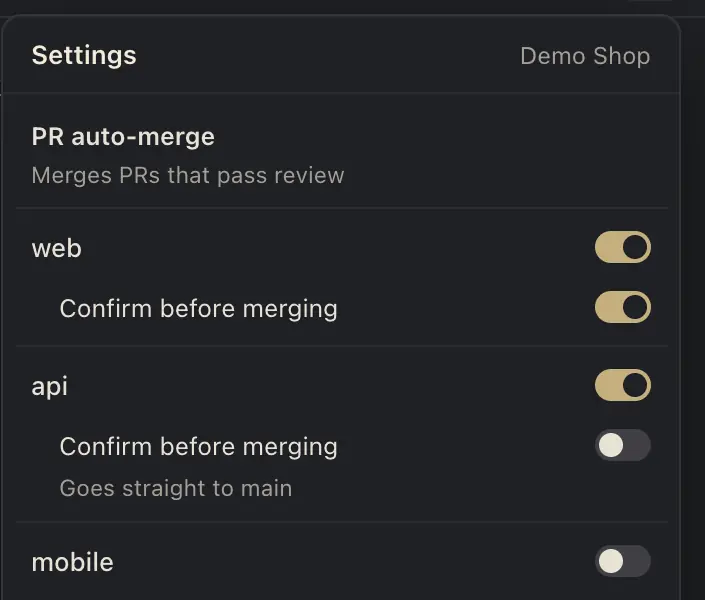
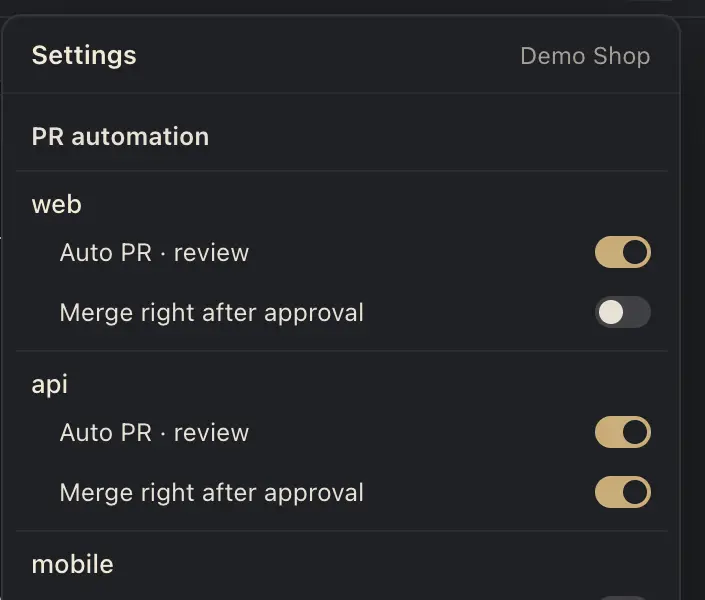
feat(athena): 업데이트 내역에 0.32 절(배포판 전 · 4개 언어) 추가 · 설정 팝업 스크린샷을 새 화면으로 교체

diff --git a/athena/ja/releases/index.html b/athena/ja/releases/index.html
@@ -70,9 +70,21 @@
      ③ 나머지는 "그 밖의 작은 고침 N개" 한 줄(r.<판>m)로 묶고 그 판 GitHub Release(releases/tag/vX.Y.Z) 링크.
      핵심에 내부 용어(현황판 · pane 번호 · 계획서 · 결정 콘솔 등)를 넣지 않는다. 사실은 CHANGELOG 에 있는 것만 — 지어 넣지 않는다.
      공개판 사이의 비공개 판은 그 변경이 처음 들어간 공개판에 묶는다(v0.17.6 = 0.16 + 0.17 · v0.19.2 = 0.17.7 + 0.18 + 0.19 · v0.25.1 = 0.20 – 0.25 · v0.28.7 = 0.26 – 0.28).
-     새 판: 맨 위에 같은 모양으로 더하고 키를 ko · ja · zh 사전에 모두 넣는다. 0.2 – 0.13 은 공개 전 개발판이라 한 줄(접힘) 그대로 -->
+     새 판: 맨 위에 같은 모양으로 더하고 키를 ko · ja · zh 사전에 모두 넣는다. 0.2 – 0.13 은 공개 전 개발판이라 한 줄(접힘) 그대로
+     0.32 는 배포판 없이 내역만 먼저 올린 판(2026-10-30) — 문장은 athena-studio CHANGELOG 0.32 절 · src/changelog 그대로 7줄, 제목 · 버전 태그 · GitHub 링크 줄은 배포판이 나오면 채운다 -->
 <section style="padding-top:0">
   <div class="wrap">
+    <div class="rel"><div class="v"><b>0.32</b><span data-t="r.d32">2026 年 10 月 30 日</span></div><div>
+      <ul>
+      <li><span class="tag new" data-t="r.new">新機能</span><span data-t="r.32k1">アテナのコアが更新されると、アプリ内ポップアップに以前と新しいバージョン、アップデート内容、更新結果が表示されます。作業中だったセッションはエージェント名で表示されます。</span></li>
+      <li><span class="tag new" data-t="r.new">新機能</span><span data-t="r.32k2">Athena Studio リポジトリのないパックでアテナ自体のバグを報告すると、個人情報を隠した GitHub Issue の下書きになります。アテナが下書きを見せて GitHub で開くので、確認して自分で投稿します。</span></li>
+      <li><span class="tag imp" data-t="r.imp">改善</span><span data-t="r.32k3">同じリポジトリのエージェント pane が待機中なら、新しい pane を開かずにその pane へ新しいタスクを続けて送ります。</span></li>
+      <li><span class="tag imp" data-t="r.imp">改善</span><span data-t="r.32k4">エージェント pane を MCP サーバーなしで起動するため、返答ごとのトークンが減ります。レビュアー pane はそのまま使います。</span></li>
+      <li><span class="tag imp" data-t="r.imp">改善</span><span data-t="r.32k5">設定の PR 自動化スイッチの名前が、オンにする内容そのままになりました:「自動 PR・レビュー」「承認されたらすぐマージ」。その下の警告行はなくなりました。</span></li>
+      <li><span class="tag fix" data-t="r.fix">修正</span><span data-t="r.32k6">コミットメッセージが複数行のときや、パスに <code>~</code> や変数を使ったときに、コミットガードがアテナのコミットスクリプトを誤ってブロックしていた問題を修正しました。</span></li>
+      <li><span class="tag fix" data-t="r.fix">修正</span><span data-t="r.32k7">自動マージをオンにしたリポジトリでは、エージェントが自分の開いた PR のマージを頼まなくなりました。自動レビューがマージし、エージェントは PR の状態を報告します。</span></li>
+      </ul>
+    </div></div>
     <div class="rel"><div class="v"><b>0.28</b><span>v0.28.7<br><span data-t="r.d28">2026 年 10 月 29 日</span></span></div><div>
       <h3 class="rel-t" data-t="r.28t">エージェントの質問に、Work 画面からそのまま答えられます。</h3>
       <ul>

diff --git a/athena/ko/releases/index.html b/athena/ko/releases/index.html
@@ -70,9 +70,21 @@
      ③ 나머지는 "그 밖의 작은 고침 N개" 한 줄(r.<판>m)로 묶고 그 판 GitHub Release(releases/tag/vX.Y.Z) 링크.
      핵심에 내부 용어(현황판 · pane 번호 · 계획서 · 결정 콘솔 등)를 넣지 않는다. 사실은 CHANGELOG 에 있는 것만 — 지어 넣지 않는다.
      공개판 사이의 비공개 판은 그 변경이 처음 들어간 공개판에 묶는다(v0.17.6 = 0.16 + 0.17 · v0.19.2 = 0.17.7 + 0.18 + 0.19 · v0.25.1 = 0.20 – 0.25 · v0.28.7 = 0.26 – 0.28).
-     새 판: 맨 위에 같은 모양으로 더하고 키를 ko · ja · zh 사전에 모두 넣는다. 0.2 – 0.13 은 공개 전 개발판이라 한 줄(접힘) 그대로 -->
+     새 판: 맨 위에 같은 모양으로 더하고 키를 ko · ja · zh 사전에 모두 넣는다. 0.2 – 0.13 은 공개 전 개발판이라 한 줄(접힘) 그대로
+     0.32 는 배포판 없이 내역만 먼저 올린 판(2026-10-30) — 문장은 athena-studio CHANGELOG 0.32 절 · src/changelog 그대로 7줄, 제목 · 버전 태그 · GitHub 링크 줄은 배포판이 나오면 채운다 -->
 <section style="padding-top:0">
   <div class="wrap">
+    <div class="rel"><div class="v"><b>0.32</b><span data-t="r.d32">2026년 10월 30일</span></div><div>
+      <ul>
+      <li><span class="tag new" data-t="r.new">새 기능</span><span data-t="r.32k1">아테나 코어가 업데이트되면 앱 안 팝업에 이전 · 새 버전, 업데이트 내역, 업데이트 결과가 보여요. 일하던 세션은 에이전트 이름으로 보여요.</span></li>
+      <li><span class="tag new" data-t="r.new">새 기능</span><span data-t="r.32k2">Athena Studio 레포가 없는 팩에서 아테나 자체 버그를 올리면 개인 정보를 가린 GitHub 이슈 초안이 돼요. 아테나가 초안을 보여 주고 GitHub 에서 열어 주면, 확인하고 직접 올려요.</span></li>
+      <li><span class="tag imp" data-t="r.imp">개선</span><span data-t="r.32k3">같은 레포 에이전트 pane 이 쉬고 있으면 새 pane 을 열지 않고 그 pane 에 새 작업을 이어 보내요.</span></li>
+      <li><span class="tag imp" data-t="r.imp">개선</span><span data-t="r.32k4">에이전트 pane 을 MCP 서버 없이 띄워서 답마다 쓰는 토큰이 줄어요. 리뷰어 pane 은 그대로 써요.</span></li>
+      <li><span class="tag imp" data-t="r.imp">개선</span><span data-t="r.32k5">설정의 PR 자동화 스위치 이름이 켜지는 것 그대로 바뀌었어요: "자동 PR · 리뷰", "승인되면 바로 머지". 그 아래 경고 줄은 없앴어요.</span></li>
+      <li><span class="tag fix" data-t="r.fix">수정</span><span data-t="r.32k6">커밋 메시지가 여러 줄이거나 경로에 <code>~</code> 나 변수를 쓰면 커밋 보호 훅이 아테나의 커밋 스크립트를 잘못 막던 문제를 고쳤어요.</span></li>
+      <li><span class="tag fix" data-t="r.fix">수정</span><span data-t="r.32k7">자동 머지를 켠 레포에서 에이전트가 자기가 연 PR 을 머지해 달라고 하지 않아요. 자동 리뷰가 머지하고, 에이전트는 PR 상태를 알려 줘요.</span></li>
+      </ul>
+    </div></div>
     <div class="rel"><div class="v"><b>0.28</b><span>v0.28.7<br><span data-t="r.d28">2026년 10월 29일</span></span></div><div>
       <h3 class="rel-t" data-t="r.28t">에이전트의 질문을 작업 화면에서 바로 답합니다</h3>
       <ul>

diff --git a/athena/zh/releases/index.html b/athena/zh/releases/index.html
@@ -70,9 +70,21 @@
      ③ 나머지는 "그 밖의 작은 고침 N개" 한 줄(r.<판>m)로 묶고 그 판 GitHub Release(releases/tag/vX.Y.Z) 링크.
      핵심에 내부 용어(현황판 · pane 번호 · 계획서 · 결정 콘솔 등)를 넣지 않는다. 사실은 CHANGELOG 에 있는 것만 — 지어 넣지 않는다.
      공개판 사이의 비공개 판은 그 변경이 처음 들어간 공개판에 묶는다(v0.17.6 = 0.16 + 0.17 · v0.19.2 = 0.17.7 + 0.18 + 0.19 · v0.25.1 = 0.20 – 0.25 · v0.28.7 = 0.26 – 0.28).
-     새 판: 맨 위에 같은 모양으로 더하고 키를 ko · ja · zh 사전에 모두 넣는다. 0.2 – 0.13 은 공개 전 개발판이라 한 줄(접힘) 그대로 -->
+     새 판: 맨 위에 같은 모양으로 더하고 키를 ko · ja · zh 사전에 모두 넣는다. 0.2 – 0.13 은 공개 전 개발판이라 한 줄(접힘) 그대로
+     0.32 는 배포판 없이 내역만 먼저 올린 판(2026-10-30) — 문장은 athena-studio CHANGELOG 0.32 절 · src/changelog 그대로 7줄, 제목 · 버전 태그 · GitHub 링크 줄은 배포판이 나오면 채운다 -->
 <section style="padding-top:0">
   <div class="wrap">
+    <div class="rel"><div class="v"><b>0.32</b><span data-t="r.d32">2026 年 10 月 30 日</span></div><div>
+      <ul>
+      <li><span class="tag new" data-t="r.new">新功能</span><span data-t="r.32k1">Athena 核心更新后，应用内弹窗会显示旧版本和新版本、更新内容以及更新结果。正在工作的会话以代理名称显示。</span></li>
+      <li><span class="tag new" data-t="r.new">新功能</span><span data-t="r.32k2">在没有 Athena Studio 仓库的包中报告 Athena 自身的 bug 时，会生成隐藏了个人信息的 GitHub issue 草稿。Athena 先展示草稿并在 GitHub 上打开，由你确认后自行提交。</span></li>
+      <li><span class="tag imp" data-t="r.imp">改进</span><span data-t="r.32k3">同一仓库的代理 pane 空闲时，Athena 会把新任务继续发到那个 pane，而不是再打开新的 pane。</span></li>
+      <li><span class="tag imp" data-t="r.imp">改进</span><span data-t="r.32k4">代理 pane 启动时不加载 MCP 服务器，每次回复使用的 token 更少。审查者 pane 保持不变。</span></li>
+      <li><span class="tag imp" data-t="r.imp">改进</span><span data-t="r.32k5">设置中的 PR 自动化开关改为按开启的功能命名：“自动 PR · 审查”和“批准后立即合并”。下方的警告行已移除。</span></li>
+      <li><span class="tag fix" data-t="r.fix">修复</span><span data-t="r.32k6">修复了提交信息有多行，或路径使用 <code>~</code> 或变量时，提交保护钩子错误拦截 Athena 自身提交脚本的问题。</span></li>
+      <li><span class="tag fix" data-t="r.fix">修复</span><span data-t="r.32k7">在开启自动合并的仓库中，代理不再请你合并它打开的 PR。自动审查会完成合并，代理会报告 PR 状态。</span></li>
+      </ul>
+    </div></div>
     <div class="rel"><div class="v"><b>0.28</b><span>v0.28.7<br><span data-t="r.d28">2026 年 10 月 29 日</span></span></div><div>
       <h3 class="rel-t" data-t="r.28t">可直接在 Work 中回答智能体的提问。</h3>
       <ul>

diff --git a/athena/releases/index.html b/athena/releases/index.html
@@ -70,9 +70,21 @@
      ③ 나머지는 "그 밖의 작은 고침 N개" 한 줄(r.<판>m)로 묶고 그 판 GitHub Release(releases/tag/vX.Y.Z) 링크.
      핵심에 내부 용어(현황판 · pane 번호 · 계획서 · 결정 콘솔 등)를 넣지 않는다. 사실은 CHANGELOG 에 있는 것만 — 지어 넣지 않는다.
      공개판 사이의 비공개 판은 그 변경이 처음 들어간 공개판에 묶는다(v0.17.6 = 0.16 + 0.17 · v0.19.2 = 0.17.7 + 0.18 + 0.19 · v0.25.1 = 0.20 – 0.25 · v0.28.7 = 0.26 – 0.28).
-     새 판: 맨 위에 같은 모양으로 더하고 키를 ko · ja · zh 사전에 모두 넣는다. 0.2 – 0.13 은 공개 전 개발판이라 한 줄(접힘) 그대로 -->
+     새 판: 맨 위에 같은 모양으로 더하고 키를 ko · ja · zh 사전에 모두 넣는다. 0.2 – 0.13 은 공개 전 개발판이라 한 줄(접힘) 그대로
+     0.32 는 배포판 없이 내역만 먼저 올린 판(2026-10-30) — 문장은 athena-studio CHANGELOG 0.32 절 · src/changelog 그대로 7줄, 제목 · 버전 태그 · GitHub 링크 줄은 배포판이 나오면 채운다 -->
 <section style="padding-top:0">
   <div class="wrap">
+    <div class="rel"><div class="v"><b>0.32</b><span data-t="r.d32">Oct 30, 2026</span></div><div>
+      <ul>
+      <li><span class="tag new" data-t="r.new">New</span><span data-t="r.32k1">After Athena's core updates, an in-app popup shows the previous and new versions, what's new, and how the update went, with working sessions listed by agent name.</span></li>
+      <li><span class="tag new" data-t="r.new">New</span><span data-t="r.32k2">In packs without the Athena Studio repository, a bug report about Athena itself becomes a GitHub issue draft with private details hidden. Athena shows you the draft and opens it on GitHub for you to review and submit.</span></li>
+      <li><span class="tag imp" data-t="r.imp">Improved</span><span data-t="r.32k3">Athena hands a new task to an idle agent pane for the same repository instead of opening another pane.</span></li>
+      <li><span class="tag imp" data-t="r.imp">Improved</span><span data-t="r.32k4">Agent panes start without MCP servers, so each reply uses fewer tokens. Reviewer panes keep them.</span></li>
+      <li><span class="tag imp" data-t="r.imp">Improved</span><span data-t="r.32k5">The PR automation switches in Settings are named for what they turn on: "Auto PR · review" and "Merge right after approval". The warning line under them is gone.</span></li>
+      <li><span class="tag fix" data-t="r.fix">Fixed</span><span data-t="r.32k6">The commit guard no longer wrongly blocks Athena's own commit script when the message spans several lines or the path uses <code>~</code> or a variable.</span></li>
+      <li><span class="tag fix" data-t="r.fix">Fixed</span><span data-t="r.32k7">In repositories with auto-merge on, agents no longer ask you to merge a pull request they opened. Automatic review merges it, and the agent reports its state.</span></li>
+      </ul>
+    </div></div>
     <div class="rel"><div class="v"><b>0.28</b><span>v0.28.7<br><span data-t="r.d28">Oct 29, 2026</span></span></div><div>
       <h3 class="rel-t" data-t="r.28t">Answer an agent's question right from Work.</h3>
       <ul>

diff --git a/athena/assets/i18n/ja.js b/athena/assets/i18n/ja.js
@@ -222,6 +222,14 @@ window.ATHENA_I18N.ja = {
   "k.left": "左のリストを折りたたむ",
   "k.rightp": "右のパネルを折りたたむ",
   "r.lead2": "Athena Studio の公開版ごとの変更点を新しい順に載せています。",
+  "r.d32": "2026 年 10 月 30 日",
+  "r.32k1": "アテナのコアが更新されると、アプリ内ポップアップに以前と新しいバージョン、アップデート内容、更新結果が表示されます。作業中だったセッションはエージェント名で表示されます。",
+  "r.32k2": "Athena Studio リポジトリのないパックでアテナ自体のバグを報告すると、個人情報を隠した GitHub Issue の下書きになります。アテナが下書きを見せて GitHub で開くので、確認して自分で投稿します。",
+  "r.32k3": "同じリポジトリのエージェント pane が待機中なら、新しい pane を開かずにその pane へ新しいタスクを続けて送ります。",
+  "r.32k4": "エージェント pane を MCP サーバーなしで起動するため、返答ごとのトークンが減ります。レビュアー pane はそのまま使います。",
+  "r.32k5": "設定の PR 自動化スイッチの名前が、オンにする内容そのままになりました:「自動 PR・レビュー」「承認されたらすぐマージ」。その下の警告行はなくなりました。",
+  "r.32k6": "コミットメッセージが複数行のときや、パスに <code>~</code> や変数を使ったときに、コミットガードがアテナのコミットスクリプトを誤ってブロックしていた問題を修正しました。",
+  "r.32k7": "自動マージをオンにしたリポジトリでは、エージェントが自分の開いた PR のマージを頼まなくなりました。自動レビューがマージし、エージェントは PR の状態を報告します。",
   "r.d28": "2026 年 10 月 29 日",
   "r.28t": "エージェントの質問に、Work 画面からそのまま答えられます。",
   "r.28k1": "エージェントが pane で質問すると、Work にもリクエストとして表示され、そこで答えを選べます。",

diff --git a/athena/assets/i18n/ko.js b/athena/assets/i18n/ko.js
@@ -222,6 +222,14 @@ window.ATHENA_I18N.ko = {
   "k.left": "왼쪽 목록 접기",
   "k.rightp": "오른쪽 칸 접기",
   "r.lead2": "Athena Studio 공개판마다 바뀐 것을 최신 순으로 적었습니다.",
+  "r.d32": "2026년 10월 30일",
+  "r.32k1": "아테나 코어가 업데이트되면 앱 안 팝업에 이전 · 새 버전, 업데이트 내역, 업데이트 결과가 보여요. 일하던 세션은 에이전트 이름으로 보여요.",
+  "r.32k2": "Athena Studio 레포가 없는 팩에서 아테나 자체 버그를 올리면 개인 정보를 가린 GitHub 이슈 초안이 돼요. 아테나가 초안을 보여 주고 GitHub 에서 열어 주면, 확인하고 직접 올려요.",
+  "r.32k3": "같은 레포 에이전트 pane 이 쉬고 있으면 새 pane 을 열지 않고 그 pane 에 새 작업을 이어 보내요.",
+  "r.32k4": "에이전트 pane 을 MCP 서버 없이 띄워서 답마다 쓰는 토큰이 줄어요. 리뷰어 pane 은 그대로 써요.",
+  "r.32k5": "설정의 PR 자동화 스위치 이름이 켜지는 것 그대로 바뀌었어요: \"자동 PR · 리뷰\", \"승인되면 바로 머지\". 그 아래 경고 줄은 없앴어요.",
+  "r.32k6": "커밋 메시지가 여러 줄이거나 경로에 <code>~</code> 나 변수를 쓰면 커밋 보호 훅이 아테나의 커밋 스크립트를 잘못 막던 문제를 고쳤어요.",
+  "r.32k7": "자동 머지를 켠 레포에서 에이전트가 자기가 연 PR 을 머지해 달라고 하지 않아요. 자동 리뷰가 머지하고, 에이전트는 PR 상태를 알려 줘요.",
   "r.d28": "2026년 10월 29일",
   "r.28t": "에이전트의 질문을 작업 화면에서 바로 답합니다",
   "r.28k1": "에이전트가 pane에서 질문하면 작업 화면에도 요청으로 나타나, 거기서 답을 고를 수 있습니다.",

diff --git a/athena/assets/i18n/zh.js b/athena/assets/i18n/zh.js
@@ -222,6 +222,14 @@ window.ATHENA_I18N.zh = {
   "k.left": "收起左侧列表",
   "k.rightp": "收起右侧面板",
   "r.lead2": "按从新到旧列出 Athena Studio 每个公开版本的变化。",
+  "r.d32": "2026 年 10 月 30 日",
+  "r.32k1": "Athena 核心更新后，应用内弹窗会显示旧版本和新版本、更新内容以及更新结果。正在工作的会话以代理名称显示。",
+  "r.32k2": "在没有 Athena Studio 仓库的包中报告 Athena 自身的 bug 时，会生成隐藏了个人信息的 GitHub issue 草稿。Athena 先展示草稿并在 GitHub 上打开，由你确认后自行提交。",
+  "r.32k3": "同一仓库的代理 pane 空闲时，Athena 会把新任务继续发到那个 pane，而不是再打开新的 pane。",
+  "r.32k4": "代理 pane 启动时不加载 MCP 服务器，每次回复使用的 token 更少。审查者 pane 保持不变。",
+  "r.32k5": "设置中的 PR 自动化开关改为按开启的功能命名：“自动 PR · 审查”和“批准后立即合并”。下方的警告行已移除。",
+  "r.32k6": "修复了提交信息有多行，或路径使用 <code>~</code> 或变量时，提交保护钩子错误拦截 Athena 自身提交脚本的问题。",
+  "r.32k7": "在开启自动合并的仓库中，代理不再请你合并它打开的 PR。自动审查会完成合并，代理会报告 PR 状态。",
   "r.d28": "2026 年 10 月 29 日",
   "r.28t": "可直接在 Work 中回答智能体的提问。",
   "r.28k1": "智能体在 pane 中提问时,问题也会作为请求显示在 Work 中,你可以在那里选择答案。",
